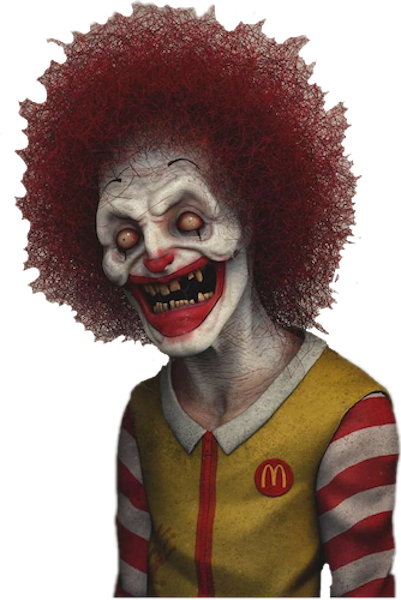
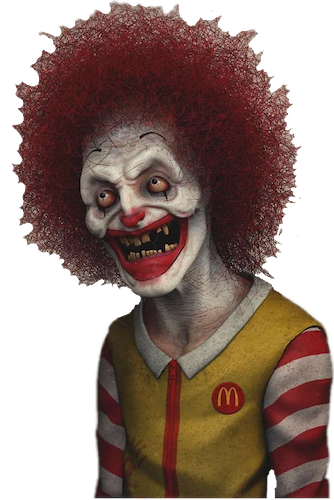
added fx

diff --git a/src/levelGenerator.ts b/src/levelGenerator.ts
@@ -3,8 +3,8 @@ class Generator {
 
   constructor() {
 
-    // 1 = spik + deadly
-    // 2 = spik + safe
+    // 1 = spik + safe
+    // 2 = spik + deadly
     // 3 = solid + safe
     // 4 = invis + solid + safe
     // 5 = invis + deadly
@@ -26,7 +26,7 @@ class Generator {
       [ 0, 0, 0, 0, 0, 0, 0, 0, 0, 0, 4, 0, 0, 7, 0, 0, 0, 0, 0, 0, 0, 0, 0, 0, 0, 0, 0, 0, 0, 0, 4, 0, 0, 0, 0, 0, 0, 0, 0, 0, 0, 0, 0, 0, 0, 0, 0, 0, 0, 0, 0, 0, 0, 0, 0, 0, 0, 0, 0, 0, 0, 0, 0, 0, 0, 0, 0, 0, 5, 0, 5, 0, 0, 0, 0, 0, 0, 0, 0, 0, 0, 3, 3, 3, 3, 3, 3, 3, 3, 3, 3, 0, 0, 0, 0, 0, 0, 3, 0, 0, 0, 6, 0, 0, 0, 7, 0, 0, 0, 3, 0, 0, 0, 0, 0, 0, 0, 0, 0, 0, 0, 3, 0, 0, 0, 0, 0, 0, 0, 0, 3, 0, 0, 4, 0, 0, 0, 0, 0, 0, 3, 3, 3, 3, 3, 0, 0, 1,],
       [ 0, 0, 10, 0, 0, 0, 4, 0, 0, 0, 5, 0, 0, 7, 0, 0, 0, 0, 0, 0, 0, 0, 0, 0, 0, 0, 0, 0, 0, 0, 0, 0, 0, 0, 0, 0, 0, 0, 0, 0, 0, 0, 0, 4, 4, 4, 4, 4, 0, 0, 0, 0, 0, 0, 0, 0, 0, 0, 0, 0, 0, 0, 0, 3, 0, 0, 0, 0, 0, 0, 5, 0, 3, 0, 0, 0, 0, 0, 0, 0, 0, 7, 7, 7, 6, 7, 7, 7, 7, 7, 7, 0, 0, 0, 0, 0, 0, 0, 0, 0, 0, 0, 0, 0, 0, 0, 0, 0, 0, 0, 0, 0, 0, 4, 0, 0, 0, 0, 0, 0, 0, 3, 0, 0, 0, 0, 0, 0, 0, 0, 3, 0, 0, 0, 0, 0, 0, 0, 0, 0, 3, 3, 3, 3, 3, 0, 0, 1,],
       [ 0, 0, 10, 0, 0, 0, 0, 5, 5, 5, 0, 0, 0, 3, 0, 0, 0, 0, 0, 0, 3, 0, 8, 0, 8, 0, 0, 9, 0, 9, 0, 0, 0, 9, 0, 0, 9, 0, 0, 9, 0, 3, 1, 1, 1, 1, 1, 1, 1, 1, 1, 1, 1, 1, 1, 1, 1, 1, 1, 1, 1, 1, 1, 3, 0, 0, 5, 0, 0, 0, 5, 0, 0, 0, 0, 0, 0, 0, 0, 0, 0, 7, 7, 7, 6, 7, 7, 7, 7, 7, 7, 0, 0, 3, 1, 1, 1, 1, 1, 2, 2, 2, 2, 1, 1, 1, 1, 1, 1, 1, 1, 3, 0, 0, 0, 9, 0, 3, 0, 9, 0, 3, 1, 1, 1, 1, 1, 1, 1, 1, 3, 2, 2, 2, 2, 2, 2, 2, 2, 2, 3, 3, 3, 3, 3, 0, 0, 1,],
-      [ 3, 3, 3, 3, 3, 3, 3, 3, 3, 3, 3, 3, 3, 3, 3, 3, 3, 3, 3, 3, 3, 3, 3, 3, 3, 3, 3, 3, 3, 3, 3, 3, 3, 3, 3, 3, 3, 3, 3, 3, 3, 3, 3, 3, 3, 3, 3, 3, 3, 3, 3, 3, 3, 3, 3, 3, 3, 3, 3, 3, 3, 3, 3, 3, 3, 3, 3, 3, 3, 3, 3, 3, 3, 3, 3, 6, 6, 6, 3, 3, 3, 3, 3, 3, 3, 3, 3, 3, 3, 3, 3, 3, 3, 3, 3, 3, 3, 3, 3, 3, 3, 3, 3, 3, 3, 3, 3, 3, 3, 3, 3, 3, 3, 3, 3, 3, 3, 3, 3, 3, 3, 3, 3, 3, 3, 3, 3, 3, 3, 3, 3, 3, 3, 3, 3, 3, 3, 3, 3, 3, 3, 3, 3, 3, 3, 0, 0, 3,],
+      [ 3, 3, 3, 3, 3, 3, 3, 3, 3, 3, 3, 3, 3, 3, 3, 3, 3, 3, 3, 3, 3, 3, 3, 3, 3, 3, 3, 3, 3, 3, 3, 3, 3, 3, 3, 3, 3, 3, 3, 3, 3, 3, 3, 3, 3, 3, 3, 3, 3, 3, 3, 3, 3, 3, 3, 3, 3, 3, 3, 3, 3, 3, 3, 3, 3, 3, 3, 3, 3, 3, 3, 3, 3, 3, 3, 6, 6, 6, 3, 3, 3, 3, 3, 3, 3, 3, 3, 3, 3, 3, 3, 3, 3, 3, 3, 3, 3, 3, 3, 3, 3, 3, 3, 3, 3, 3, 3, 3, 3, 3, 3, 3, 3, 3, 3, 3, 3, 3, 3, 3, 3, 3, 3, 3, 3, 3, 3, 3, 3, 3, 3, 3, 3, 3, 3, 3, 3, 3, 3, 3, 3, 3, 3, 3, 3, 3, 3, 3,],
 
     ];
   }
@@ -55,7 +55,7 @@ class Generator {
 
         switch (this.worldGrid[y][x]) {
           case 1 /* new x(position, fill, isSolid, damage,) (SPIKE)*/:
-            entities.add(new Spike(position, "grey", true, true));
+            entities.add(new Spike(position, images.bkHat, true, true));
             break;
 
           case 2:

diff --git a/src/Menu.ts b/src/Menu.ts
@@ -1,5 +1,6 @@
 //Menu class used to create the start menu and game over menu.
 
+
 class Menu implements Visual {
     //insert parameters necessary for both menus
     message: string;
@@ -33,7 +34,8 @@ class StartMenu extends Menu {
 
     draw(): void {
         //Menu text
-        background(222, 6, 18)
+        // background(222, 6, 18)
+        image(images.bloodBackground, 0, 0)
         image(images.ronaldMenu, 785, 485)
         fill(241, 163, 10)
         textAlign(CENTER)
@@ -46,9 +48,9 @@ class StartMenu extends Menu {
         textSize(70)
         textFont(fonts.pressStart2p)
         fill(43, 69, 147)
-        text('Armageddon', 648, 300)
+        text('ARMAGEDDON', 648, 300)
         fill(241, 163, 10)
-        text('Armageddon', 640, 300)
+        text('ARMAGEDDON', 640, 300)
         super.draw();
 
     }
@@ -60,22 +62,39 @@ class StartMenu extends Menu {
 
 class GameOverMenu extends Menu {
     //insert parameters necessary for both menus
-
+    private deathBalloony = 600;
+    private deathBalloonx = 50;
+    
     draw(): void {
+      
         //Menu text
         image(images.hell, 0, 0)
         image(images.graveyard, 0, 200)
-        image(images.ronaldDead, 450, 300)
-        fill(241, 163, 10)
+        image(images.ronaldDead, 450, 400)
+        image(images.deathBalloon, this.deathBalloonx, this.deathBalloony);
+        // images.deathBalloon: 50 = 50-1;
+        
+        fill(241, 163, 10, 40)
         textAlign(CENTER)
+        textSize(15)
+        textFont(fonts.roboto)
+        text('try  A, G, L', 55, 20)
         textSize(70)
         textFont(fonts.pressStart2p)
-        fill(43, 69, 147)
+        fill(184, 6, 0)
         text('YOU DIED', 648, 300)
         fill(241, 163, 10)
         text('YOU DIED', 640, 300)
-
         super.draw();
     }
+    
+    update(): void {
+        
+        this.deathBalloony-=2;
+        this.deathBalloonx = 30 * Math.sin(this.deathBalloony * 0.03) + 100;
+        super.update();
+    }
+
+
 }
 

diff --git a/src/sketch.ts b/src/sketch.ts
@@ -35,10 +35,13 @@ function preload() {
         bkFries: loadImage('./assets/images/enemy/bk-fries.png'),
         bkHat: loadImage('./assets/images/enemy/bk-hat.png'),
         ballpit: loadImage('./assets/images/map/wooden-block.png'),
+        gameBackground: loadImage('./assets/images/map/mcdonalds.png'),
         ronaldMenu: loadImage('./assets/images/menu/ronald-start.png'),
         ronaldDead: loadImage('/assets/images/menu/ronald-dead.png'),
         graveyard: loadImage('/assets/images/menu/graveyard.png'),
-        hell: loadImage('/assets/images/menu/hell.jpg')
+        hell: loadImage('./assets/images/menu/hell.jpg'),
+        deathBalloon: loadImage('./assets/images/menu/gameoverballoon.png'),
+        bloodBackground: loadImage('./assets/images/menu/background.jpg')
     }
 
     sequences = {
@@ -136,7 +139,7 @@ function setup() {
  * you created in the setup function above
  */
 function draw() {
-    background('white');
+    image(images.gameBackground, 0, 0);
 
     game.draw();
     game.update();

diff --git a/index.html b/index.html
@@ -10,7 +10,25 @@
                 justify-content: center;
                 align-items: center;
             }
+            canvas {
+
+                animation-name: rotate;
+                animation-duration: 5s;
+                animation-iteration-count: infinite;
+
+                @keyframes rotate{
+                    0% {transform: rotate(-2deg);}
+                    20% {transform: rotate(-4deg);}
+                    40% {transform: rotate(-6deg);}
+                    60% {transform: rotate(-8deg);}
+                    80% {transform: rotate(-10deg);}
+                    100% {transform: rotate(-12deg);}
+                }
+                
+            }
+
         </style>
+        
 
         <script src="https://cdn.jsdelivr.net/npm/p5@1.1.9/lib/p5.js"></script>
         <script src="https://cdn.jsdelivr.net/npm/p5@1.1.9/lib/addons/p5.sound.js"></script>

diff --git a/src/Player.ts b/src/Player.ts
@@ -9,7 +9,7 @@ class Player extends AnimatedEntity {
     private _deathHeight: number;
     constructor() {
 
-        super(createVector(11400, 0), createVector(60, 125), createVector(0, 5), createVector(0, 0.8), sequences.jumpRight[0], true, false)
+        super(createVector(11400, 0), createVector(40, 125), createVector(0, 5), createVector(0, 0.8), sequences.jumpRight[0], true, false)
         this.imageTransform = {
             sx: 0,
             sy: 0,
@@ -102,7 +102,7 @@ class Player extends AnimatedEntity {
 
     jump(): void {
         if (this.isOnGround) {
-            this.velocity.y = -20;
+            this.velocity.y = -20.5;
             sound.jump.play(undefined, undefined, .3);
         }
 

diff --git a/src/interfaces.ts b/src/interfaces.ts
@@ -2,10 +2,13 @@ interface Images {
   bkFries: p5.Image;
   bkHat: p5.Image;
   ballpit: p5.Image;
+  gameBackground: p5.Image;
   ronaldMenu: p5.Image;
   ronaldDead: p5.Image;
   graveyard: p5.Image;
   hell: p5.Image;
+  deathBalloon: p5.Image;
+  bloodBackground: p5.Image;
 }
 
 interface Sequences {

diff --git a/src/Entities/Spike.ts b/src/Entities/Spike.ts
@@ -1,5 +1,5 @@
 class Spike extends Entity {
-    constructor(position:p5.Vector, fill:string, isSolid:boolean, damage:boolean) {
+    constructor(position:p5.Vector, fill:string | p5.Image, isSolid:boolean, damage:boolean) {
 
         super(position, createVector(80,80), fill, isSolid, damage)
     }
